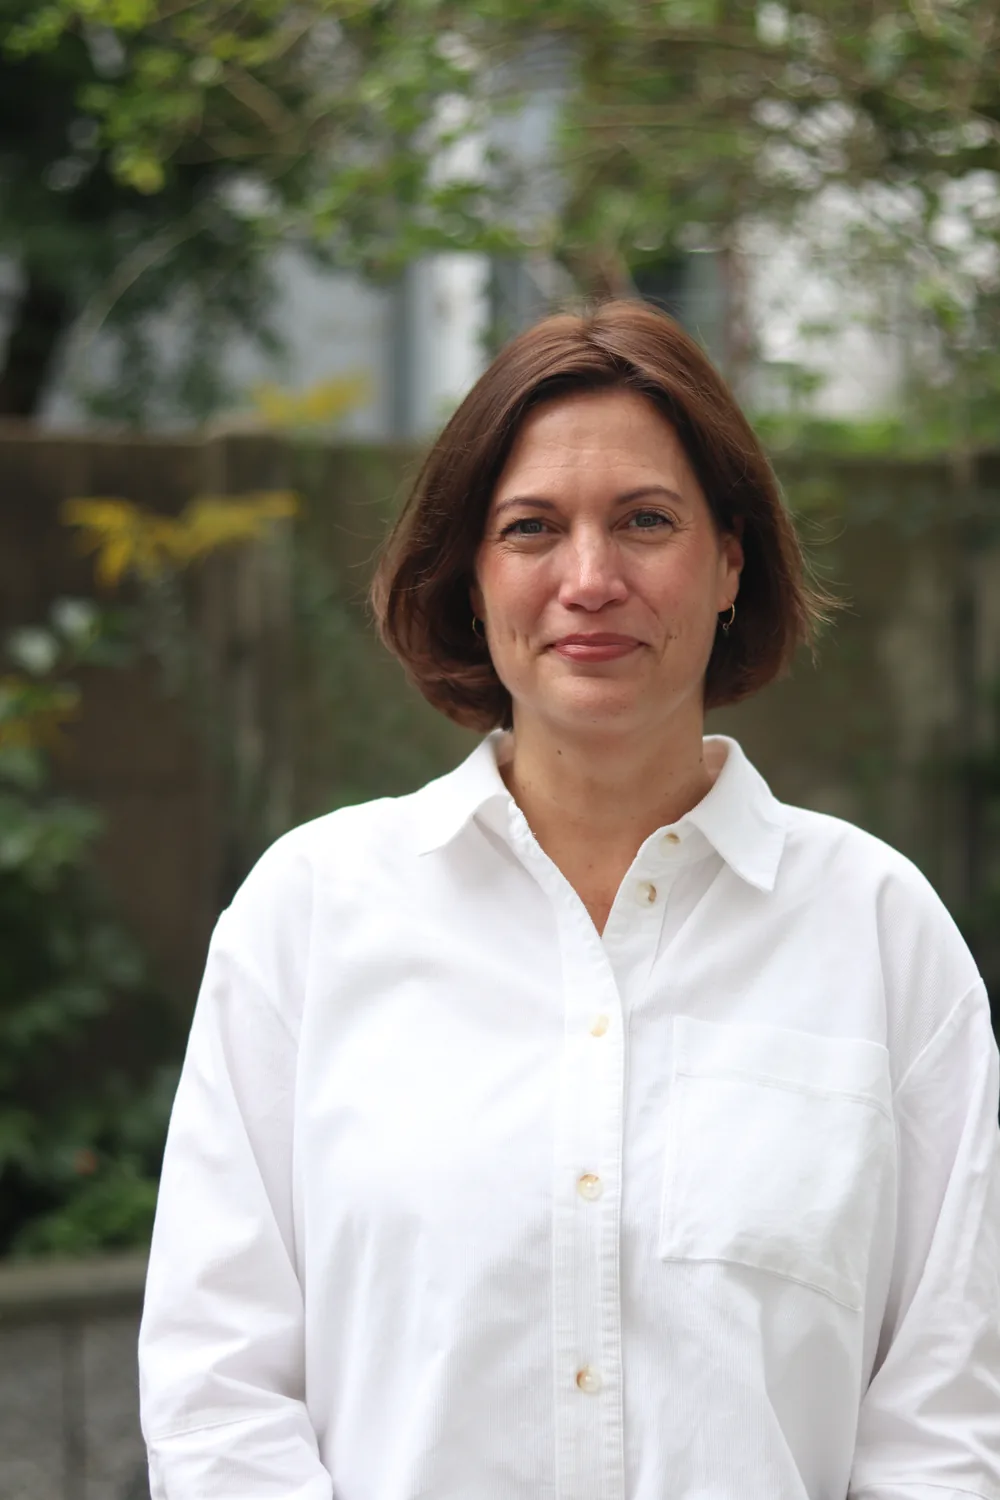
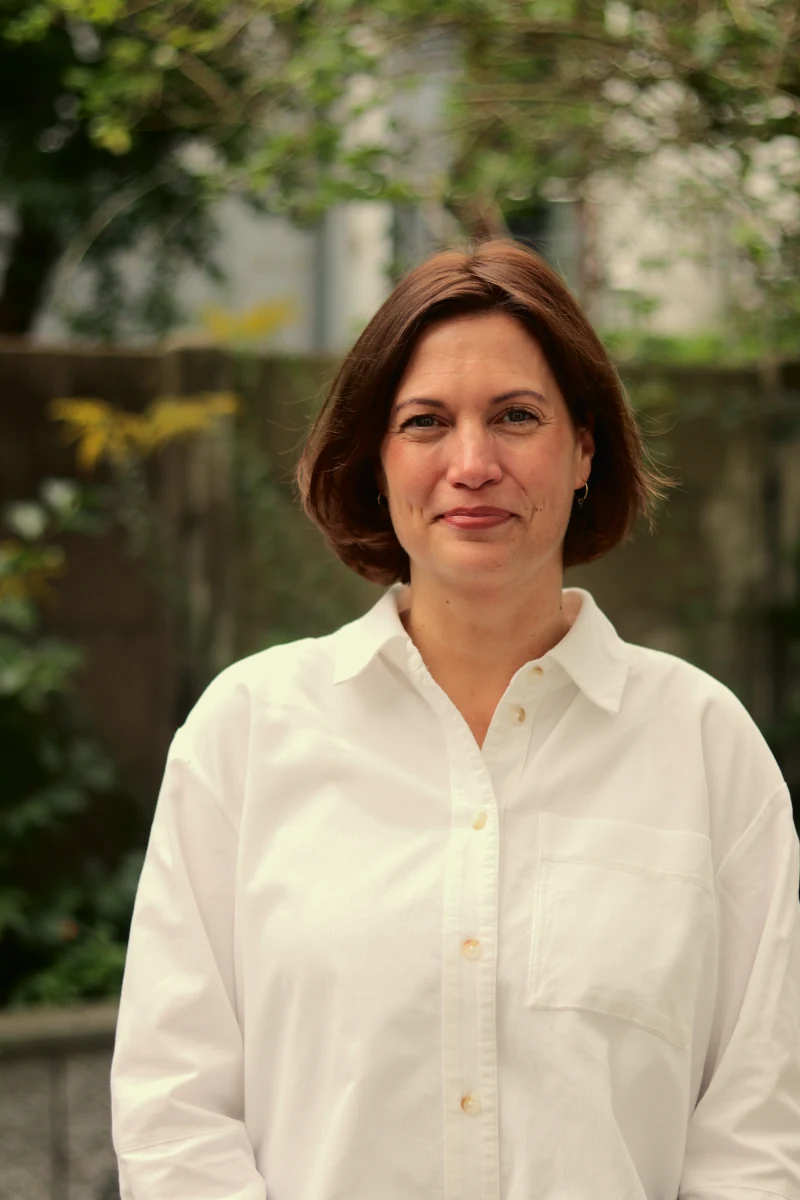
feat(team): sharper portraits in the warm editorial grade, Meike's new photo
Rahman: use IMG_0342 for Meike, and why is the quality a little blurry. The
portraits went through the image server, which re-encoded them at quality 75
and lost about half the fine detail of a face. They are now built by
scripts/media/build_team_portraits.py from the originals: cropped where a
recipe says so (Meike's centres her), 800px, the site's warm editorial grade
from build_reel.py (light and colour only), WebP quality 88. The team page
shows them as built; the contact avatar keeps the server, at quality 90.

diff --git a/src/config/content/team-spotlights.ts b/src/config/content/team-spotlights.ts
@@ -21,8 +21,9 @@ import { pick, say } from '@/lib/cms/copy';
  * SO: real names and real published responsibilities, and nothing else.
  *
  * - Photographs only of real colleagues who agreed. The portraits are CASA's
- *   own team shoot of 2026-09-10, chosen and named by Rahman (2026-10-27) and
- *   only resized for the web: public/media/casa/team/. The six synthetic images
+ *   own team shoot of 2026-09-10, chosen and named by Rahman (2026-10-27), cropped
+ *   and resized for the web in the site's warm editorial grade, light and colour only
+ *   (scripts/media/build_team_portraits.py): public/media/casa/team/. The six synthetic images
  *   that once sat there are gone: a made-up face beside a real colleague's name
  *   is never acceptable. Without a portrait the card shows one of the Bremer
  *   Stadtmusikanten (components/signatures/team-placeholder.tsx). A colleague

diff --git a/next.config.ts b/next.config.ts
@@ -111,9 +111,10 @@ const nextConfig: NextConfig = {
      * the 30 entry the optimizer logs
      * `next-image-unconfigured-qualities` on every halo and serves 75 instead,
      * which is bytes nobody can see. 75 stays because it is Next's default and
-     * every non-halo image relies on it.
+     * every non-halo image relies on it. 90 is for the contact avatars' faces
+     * (2026-10-27): at 75 a face lost half its fine detail, skin and hair read soft.
      */
-    qualities: [30, 75],
+    qualities: [30, 75, 90],
   },
 };
 

diff --git a/src/components/signatures/team-directory.tsx b/src/components/signatures/team-directory.tsx
@@ -28,6 +28,8 @@ function Portrait({ member, sizes, className }: { member: TeamSpotlight; sizes: 
         alt={member.photo.alt}
         fill
         sizes={sizes}
+        // Shown as built: the image server's re-encoding softened faces (scripts/media/build_team_portraits.py).
+        unoptimized
         className={cn('object-cover', className)}
         style={{ objectPosition: member.photo.position ?? 'center 25%' }}
       />

diff --git a/src/components/ui/person-monogram.tsx b/src/components/ui/person-monogram.tsx
@@ -74,6 +74,7 @@ export function PersonMonogram({
           alt=""
           fill
           sizes="112px"
+          quality={90}
           className="scale-[1.8] object-cover"
           style={{ objectPosition: photo.position ?? 'center 25%', transformOrigin: '50% 36%' }}
         />

diff --git a/scripts/media/build_team_portraits.py b/scripts/media/build_team_portraits.py
@@ -1,0 +1,99 @@
+"""Build the team portraits (public/media/casa/team/) from CASA's 2026-09-10 team shoot.
+
+Each portrait is the colleague's own photograph — the file Rahman named after them, or the frame he
+chose (Meike: IMG_0342, 2026-10-27) — cropped where a recipe says so, resized, and given the site's
+warm editorial grade from build_reel.py: the shared warm white balance, the tone curve to
+EDITORIAL_TONE and EDITORIAL_CHROMA. Global light and colour only; nothing is retouched, moved or
+generated (CLAUDE.md hard rules 3 and 4).
+
+SHARPNESS. The first set (1000px, WebP quality 82) went through the image server, which re-encoded it
+at quality 75 and lost about half its fine detail: skin read plastic, hair soft. Even at quality 90 the
+server's encoder kept only three quarters. So the team page shows these files as they are
+(`unoptimized`, team-directory.tsx): 800px — a card is at most 250px wide, 500 on a retina screen —
+at WebP quality 88, which keeps the detail of the unencoded image (measured 2026-10-27). The small
+contact avatar still goes through the server, at quality 90 (person-monogram.tsx).
+
+    python3 scripts/media/build_team_portraits.py            # write public/media/casa/team/*.webp
+    python3 scripts/media/build_team_portraits.py --sheet    # and a before/after sheet in output/
+
+The originals live outside the repository (~/Downloads/CASA Team Photos 2026), so this runs on the
+machine that holds them.
+"""
+import sys
+from pathlib import Path
+
+import cv2
+import numpy as np
+from PIL import Image
+
+from build_reel import EDITORIAL_CHROMA, EDITORIAL_TONE, correct, load, warm
+
+REPO = Path(__file__).resolve().parents[2]
+SOURCE = Path.home() / 'Downloads/CASA Team Photos 2026'
+OUT = REPO / 'public/media/casa/team'
+WIDTH = 800
+QUALITY = 88
+
+GRADE = {'wb': warm((1.0, 1.0, 1.0)), 'tone': EDITORIAL_TONE, 'chroma': EDITORIAL_CHROMA}
+
+# slug: the original, and a box (x, y, width, height in the upright original) where the frame needs one.
+PORTRAITS = {
+    'tanja-langenickel': {'file': 'Tanja.JPG'},
+    'natalia-sostres': {'file': 'Natalia.JPG'},
+    # IMG_0342 (Rahman, 2026-10-27): she stands right of centre; the 2:3 box centres her face, at 36% of
+    # its height, where the cards and the contact avatar's zoom expect it.
+    'meike-grosse-hundrup': {'file': 'IMG_0342.JPG', 'box': (1130, 946, 2800, 4200)},
+    'mareike-thomeczek': {'file': 'Mareike.JPG'},
+    'ina-eismann': {'file': 'Ina.JPG'},
+    'claudia-groene': {'file': 'Claudia G..JPG'},
+    'alissa-trouillet': {'file': 'Alissa.JPG'},
+    'stella-dreifke': {'file': 'Stella.JPG'},
+    'muezeyyen-ege': {'file': 'Müzzeyen.JPG'},
+    'mikis-weber': {'file': 'Mikis.JPG'},
+    'maria-alexeew': {'file': 'Maria.JPG'},
+    'helmut-kehlenbeck': {'file': 'Helmut.JPG'},
+    'christian-hetzner': {'file': 'Christian.JPG'},
+    'alina-baldowski': {'file': 'Alina.JPG'},
+}
+
+
+def render(recipe: dict) -> np.ndarray:
+    rgb = load(SOURCE / recipe['file'])
+    h, w = rgb.shape[:2]
+    if 'box' in recipe:
+        x0, y0, bw, bh = recipe['box']
+        if x0 < 0 or y0 < 0 or x0 + bw > w or y0 + bh > h:
+            raise SystemExit(f"{recipe['file']}: box {recipe['box']} does not fit {w}x{h}")
+        rgb = rgb[y0:y0 + bh, x0:x0 + bw]
+    # Resized first (only ever down), then graded: the grade is global, so the order changes nothing visible.
+    size = (WIDTH, round(rgb.shape[0] * WIDTH / rgb.shape[1]))
+    small = cv2.resize(rgb, size, interpolation=cv2.INTER_AREA).astype(np.float32) / 255.0
+    return correct(small, GRADE)
+
+
+def main() -> None:
+    sheet = '--sheet' in sys.argv
+    pairs = []
+    for slug, recipe in PORTRAITS.items():
+        before = Image.open(OUT / f'{slug}.webp').convert('RGB') if sheet and (OUT / f'{slug}.webp').exists() else None
+        image = Image.fromarray(render(recipe))
+        target = OUT / f'{slug}.webp'
+        image.save(target, 'WEBP', quality=QUALITY, method=6)
+        print(f'{target.name:28s} {image.width}x{image.height} {target.stat().st_size // 1024} KB')
+        if before is not None:
+            pairs.append((before, image))
+    if sheet and pairs:
+        tile = 300
+        canvas = Image.new('RGB', (len(pairs) * (tile + 10) + 10, 2 * round(tile * 1.5) + 30), 'white')
+        for i, (before, after) in enumerate(pairs):
+            for row, image in enumerate((before, after)):
+                thumb = image.resize((tile, round(tile * image.height / image.width)), Image.LANCZOS)
+                canvas.paste(thumb, (10 + i * (tile + 10), 10 + row * (round(tile * 1.5) + 10)))
+        path = REPO / 'output/team-photos/grade-before-after.jpg'
+        path.parent.mkdir(parents=True, exist_ok=True)
+        canvas.save(path, quality=88)
+        print(path)
+
+
+if __name__ == '__main__':
+    main()

diff --git a/CLAUDE.md b/CLAUDE.md
@@ -370,7 +370,8 @@ pattern already covers the case. If a fact is not verifiable in the repo, mark i
    the quote-to-person relationship are explicitly verified.
 3. **Team portraits are real colleagues, with consent** (`public/media/casa/team/`,
    CASA's 2026-09-10 team shoot, named by Rahman on 2026-10-27). Only a photo
-   CASA supplied for that person, only resized; anyone without one keeps a Bremer
+   CASA supplied for that person, cropped, resized and given the site's warm grade by
+   `scripts/media/build_team_portraits.py`; anyone without one keeps a Bremer
    Stadtmusikanten stand-in. Never a synthetic or generated face beside a real name.
 4. **Photo edits stay source-faithful** — crop, resize, light exposure/color
    correction only. No generative editing (expansion, relighting, retouching by an
